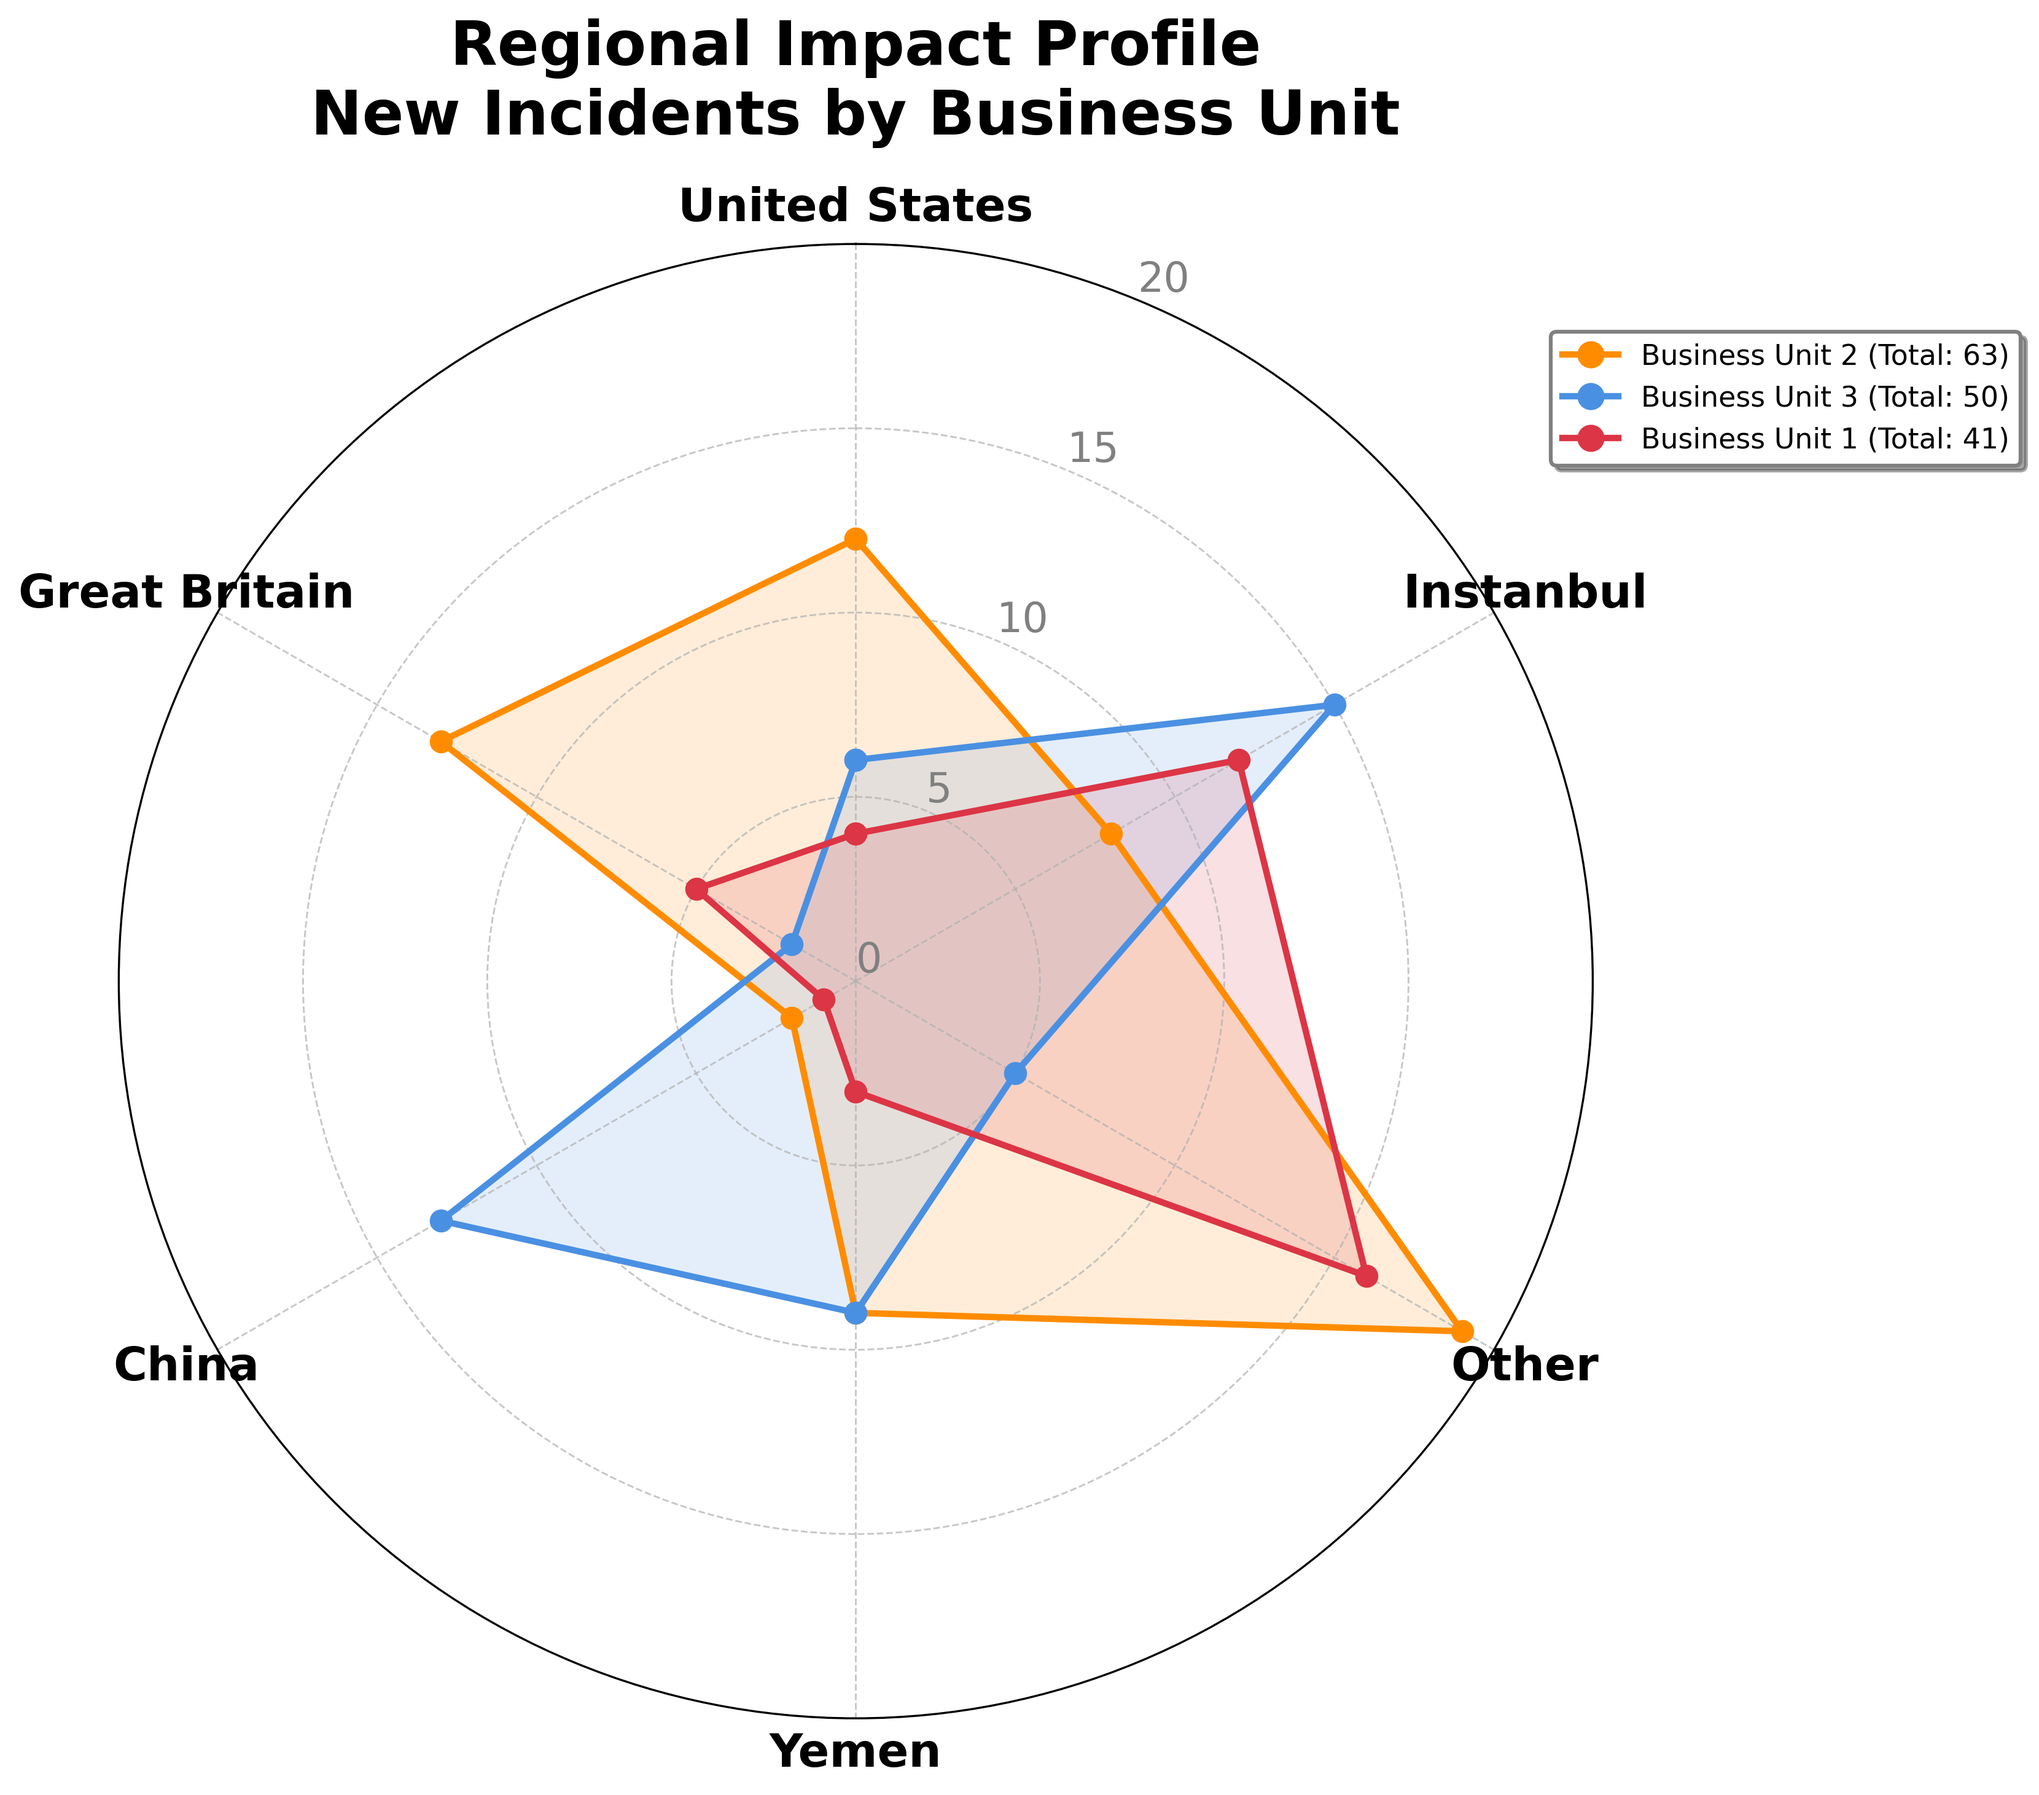
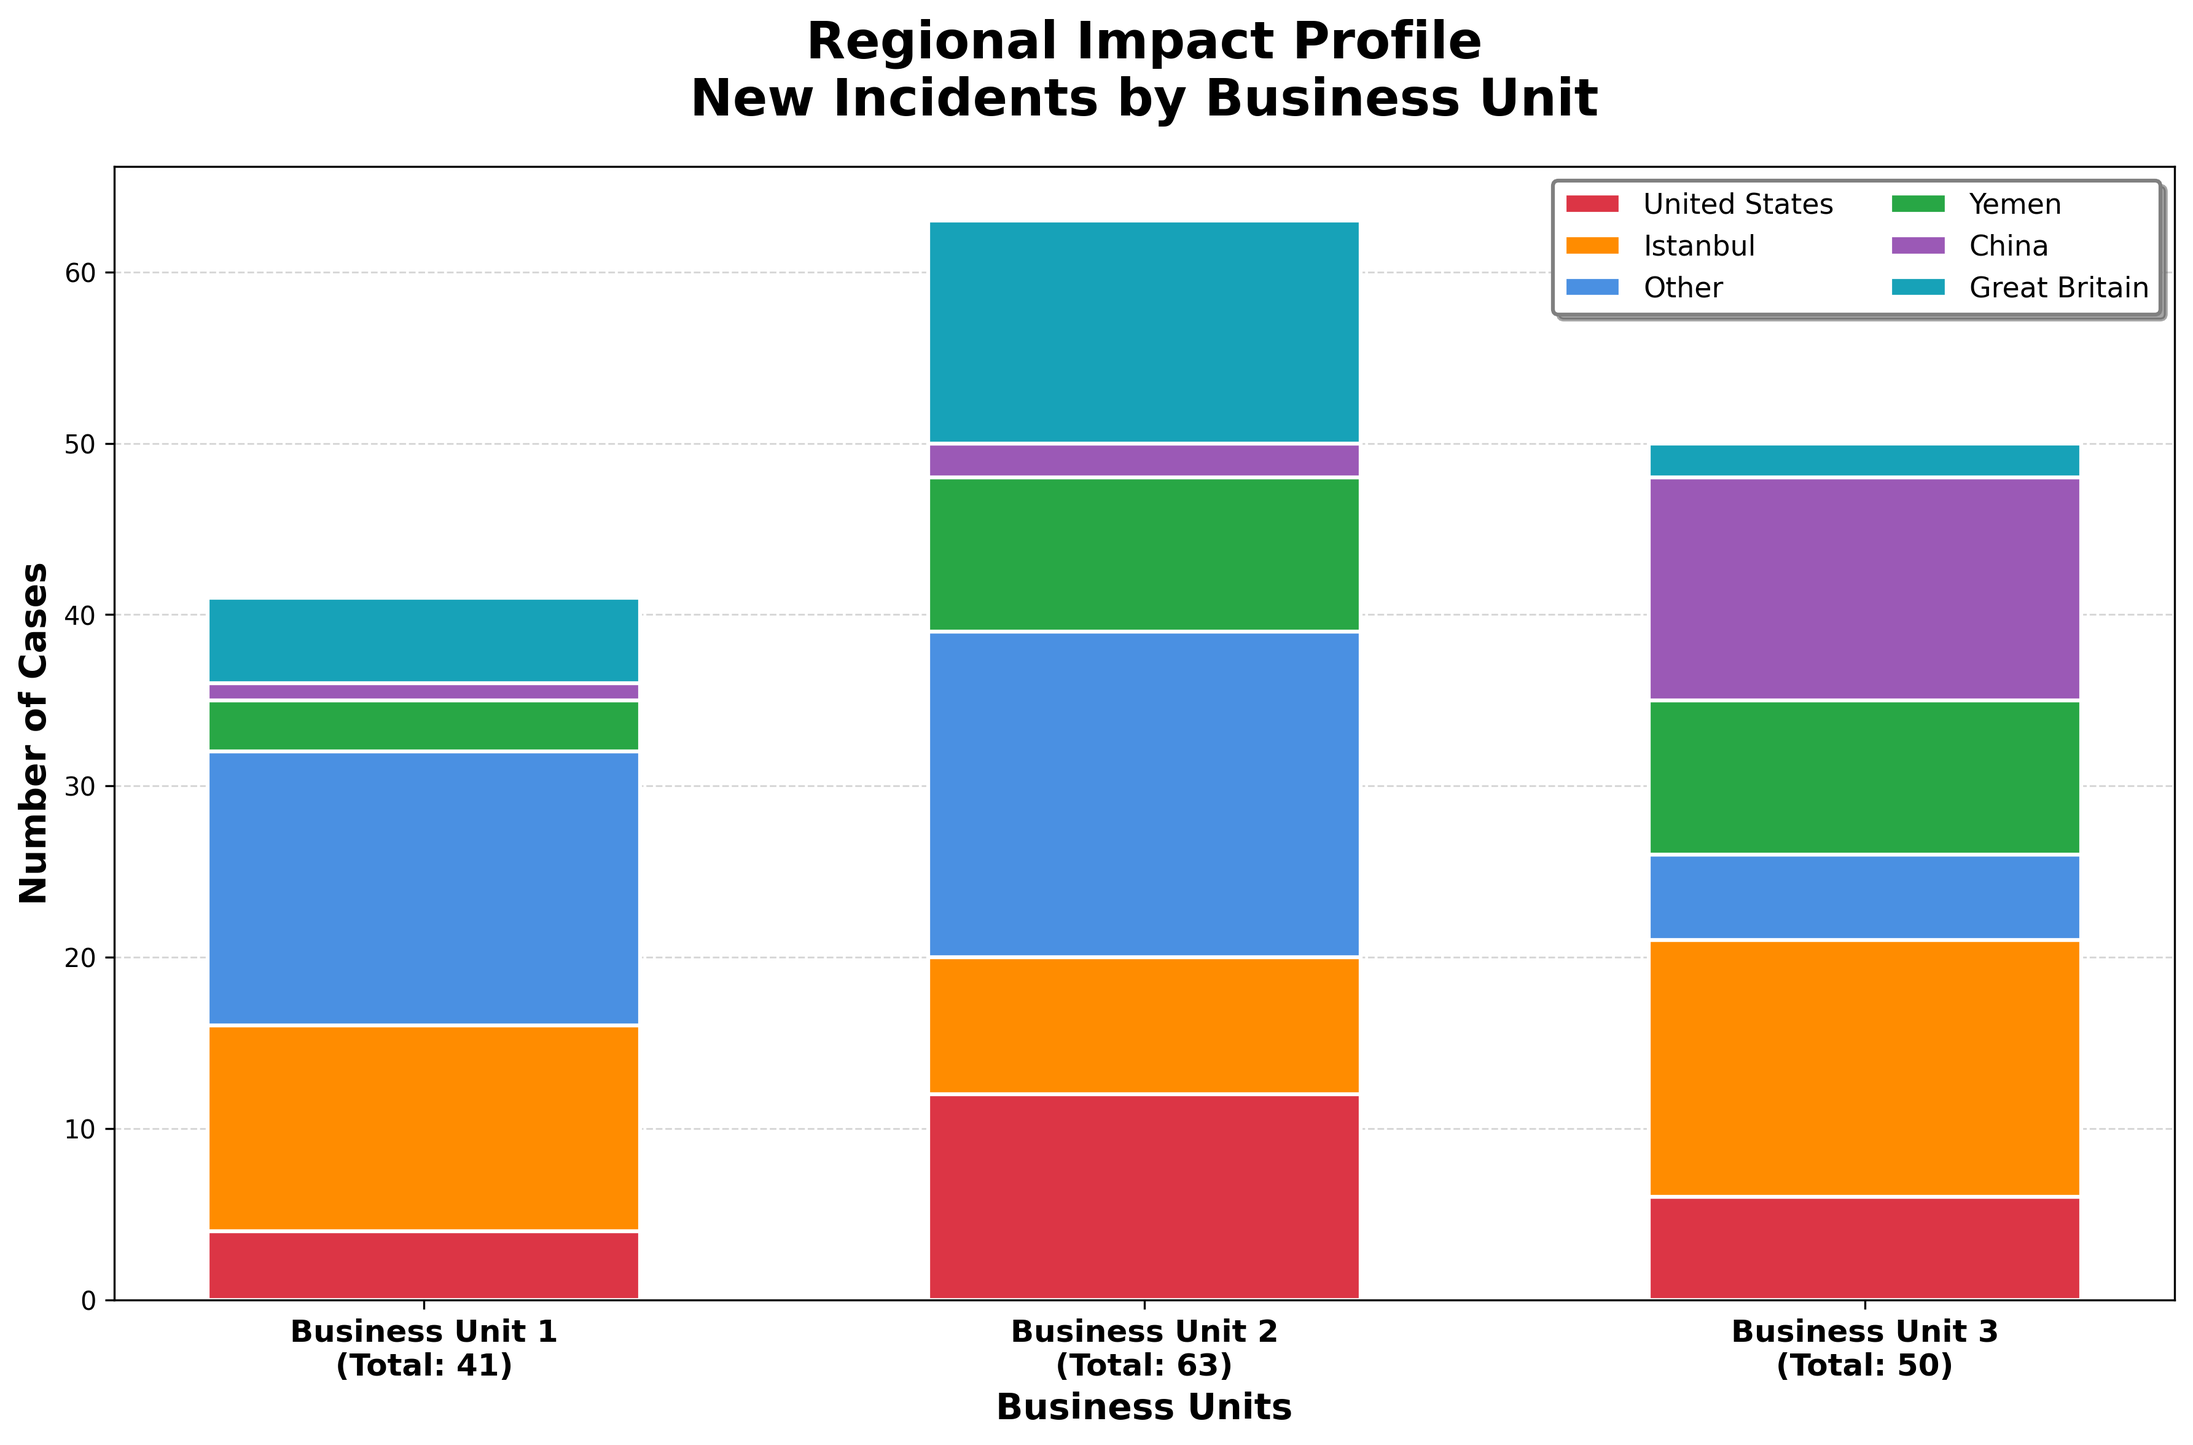
Adjusted Charts.

diff --git a/chart1.py b/chart1.py
@@ -1,84 +1,74 @@
 import matplotlib.pyplot as plt
 import numpy as np
-from matplotlib.patches import Rectangle
 import os
 
 # Set up the figure and axis
-fig = plt.figure(figsize=(12, 10))
-ax = fig.add_subplot(111, projection='polar')
+fig, ax = plt.subplots(figsize=(12, 8))
 
 # Define the categories (geographic regions)
-categories = ['United States', 'Instanbul', 'Other', 'Yemen', 'China', 'Great Britain']
-num_vars = len(categories)
-
-# Compute angle for each axis
-angles = np.linspace(0, 2 * np.pi, num_vars, endpoint=False).tolist()
-angles += angles[:1]  # Complete the circle
+regions = ['United States', 'Istanbul', 'Other', 'Yemen', 'China', 'Great Britain']
+num_regions = len(regions)
 
 # Data for each business unit (number of cases per region)
 business_unit_1 = [4, 12, 16, 3, 1, 5]
 business_unit_2 = [12, 8, 19, 9, 2, 13]
 business_unit_3 = [6, 15, 5, 9, 13, 2]
 
-# Calculate totals and rank
+# Calculate totals
 total_1 = sum(business_unit_1)
 total_2 = sum(business_unit_2)
 total_3 = sum(business_unit_3)
 
-# Find max value for scaling
-max_value = max(max(business_unit_1), max(business_unit_2), max(business_unit_3))
+# Business units (divisions) - these will be the bars
+divisions = ['Business Unit 1', 'Business Unit 2', 'Business Unit 3']
+x_pos = np.arange(len(divisions))
 
-# Complete the circle for each dataset
-business_unit_1 += business_unit_1[:1]
-business_unit_2 += business_unit_2[:1]
-business_unit_3 += business_unit_3[:1]
+# Organize data by region for stacking
+# Each row represents a region, columns are business units
+data = np.array([
+    [business_unit_1[i], business_unit_2[i], business_unit_3[i]]
+    for i in range(num_regions)
+])
 
-# Plot data with rankings
-ax.plot(angles, business_unit_2, 'o-', linewidth=2.5, label=f'Business Unit 2 (Total: {total_2})', color='#FF8C00', markersize=8)
-ax.fill(angles, business_unit_2, alpha=0.15, color='#FF8C00')
+# Colors for each region
+colors = ['#DC3545', '#FF8C00', '#4A90E2', '#28A745', '#9B59B6', '#17A2B8']
 
-ax.plot(angles, business_unit_3, 'o-', linewidth=2.5, label=f'Business Unit 3 (Total: {total_3})', color='#4A90E2', markersize=8)
-ax.fill(angles, business_unit_3, alpha=0.15, color='#4A90E2')
+# Create stacked bars
+bar_width = 0.6
+bottom = np.zeros(len(divisions))
 
-ax.plot(angles, business_unit_1, 'o-', linewidth=2.5, label=f'Business Unit 1 (Total: {total_1})', color='#DC3545', markersize=8)
-ax.fill(angles, business_unit_1, alpha=0.15, color='#DC3545')
+bars = []
+for i, (region_data, color) in enumerate(zip(data, colors)):
+    bar = ax.bar(x_pos, region_data, bar_width, bottom=bottom,
+                 label=regions[i], color=color, edgecolor='white', linewidth=1.5)
+    bars.append(bar)
+    bottom += region_data
 
-# Fix axis to go in the right order and start at 12 o'clock
-ax.set_theta_offset(np.pi / 2)
-ax.set_theta_direction(-1)
+# Customize the chart
+ax.set_ylabel('Number of Cases', fontsize=14, weight='bold')
+ax.set_xlabel('Business Units', fontsize=14, weight='bold')
+ax.set_title('Regional Impact Profile\nNew Incidents by Business Unit',
+             fontsize=20, weight='bold', pad=20)
 
-# Set the labels for each axis
-ax.set_xticks(angles[:-1])
-ax.set_xticklabels(categories, size=18, weight='bold')
-
-# Set y-axis limits and labels to accommodate case numbers
-y_max = int(np.ceil(max_value / 5) * 5)  # Round up to nearest increment
-ax.set_ylim(0, y_max)
-
-# Create evenly spaced ticks
-num_ticks = 5
-tick_values = np.linspace(0, y_max, num_ticks)
-ax.set_yticks(tick_values)
-ax.set_yticklabels([f'{int(v)}' for v in tick_values], size=16, color='gray')
+# Set x-axis labels
+ax.set_xticks(x_pos)
+ax.set_xticklabels([f'{div}\n(Total: {total})'
+                     for div, total in zip(divisions, [total_1, total_2, total_3])],
+                    fontsize=12, weight='bold')
 
 # Add grid
-ax.grid(True, linestyle='--', linewidth=0.7, alpha=0.7)
-
-# Add title
-plt.title('Regional Impact Profile\nNew Incidents by Business Unit',
-          size=24, weight='bold', pad=20, loc='center')
+ax.grid(True, axis='y', linestyle='--', linewidth=0.7, alpha=0.5, zorder=0)
+ax.set_axisbelow(True)
 
 # Add legend
-legend = ax.legend(loc='upper right', bbox_to_anchor=(1.3, 0.95),
-                   frameon=True, fontsize=11,
-                   markerscale=1.2, fancybox=True, shadow=True)
+legend = ax.legend(loc='upper right', frameon=True, fontsize=11,
+                   fancybox=True, shadow=True, ncol=2)
 legend.get_frame().set_facecolor('white')
 legend.get_frame().set_edgecolor('gray')
 legend.get_frame().set_linewidth(1.5)
 
-# Adjust layout to prevent label cutoff
+# Adjust layout
 plt.tight_layout()
-plt.subplots_adjust(top=0.85, bottom=0.05)
 
 # Create outputs directory if it doesn't exist
 output_dir = 'outputs'
@@ -88,7 +78,7 @@ os.makedirs(output_dir, exist_ok=True)
 output_path = os.path.join(output_dir, 'business_unit_cases_by_region.png')
 plt.savefig(output_path, dpi=300, bbox_inches='tight', facecolor='white')
 
-print("Radar chart created successfully!")
+print("Stacked bar chart created successfully!")
 print(f"Saved to: {output_path}")
 
 # Display the plot
